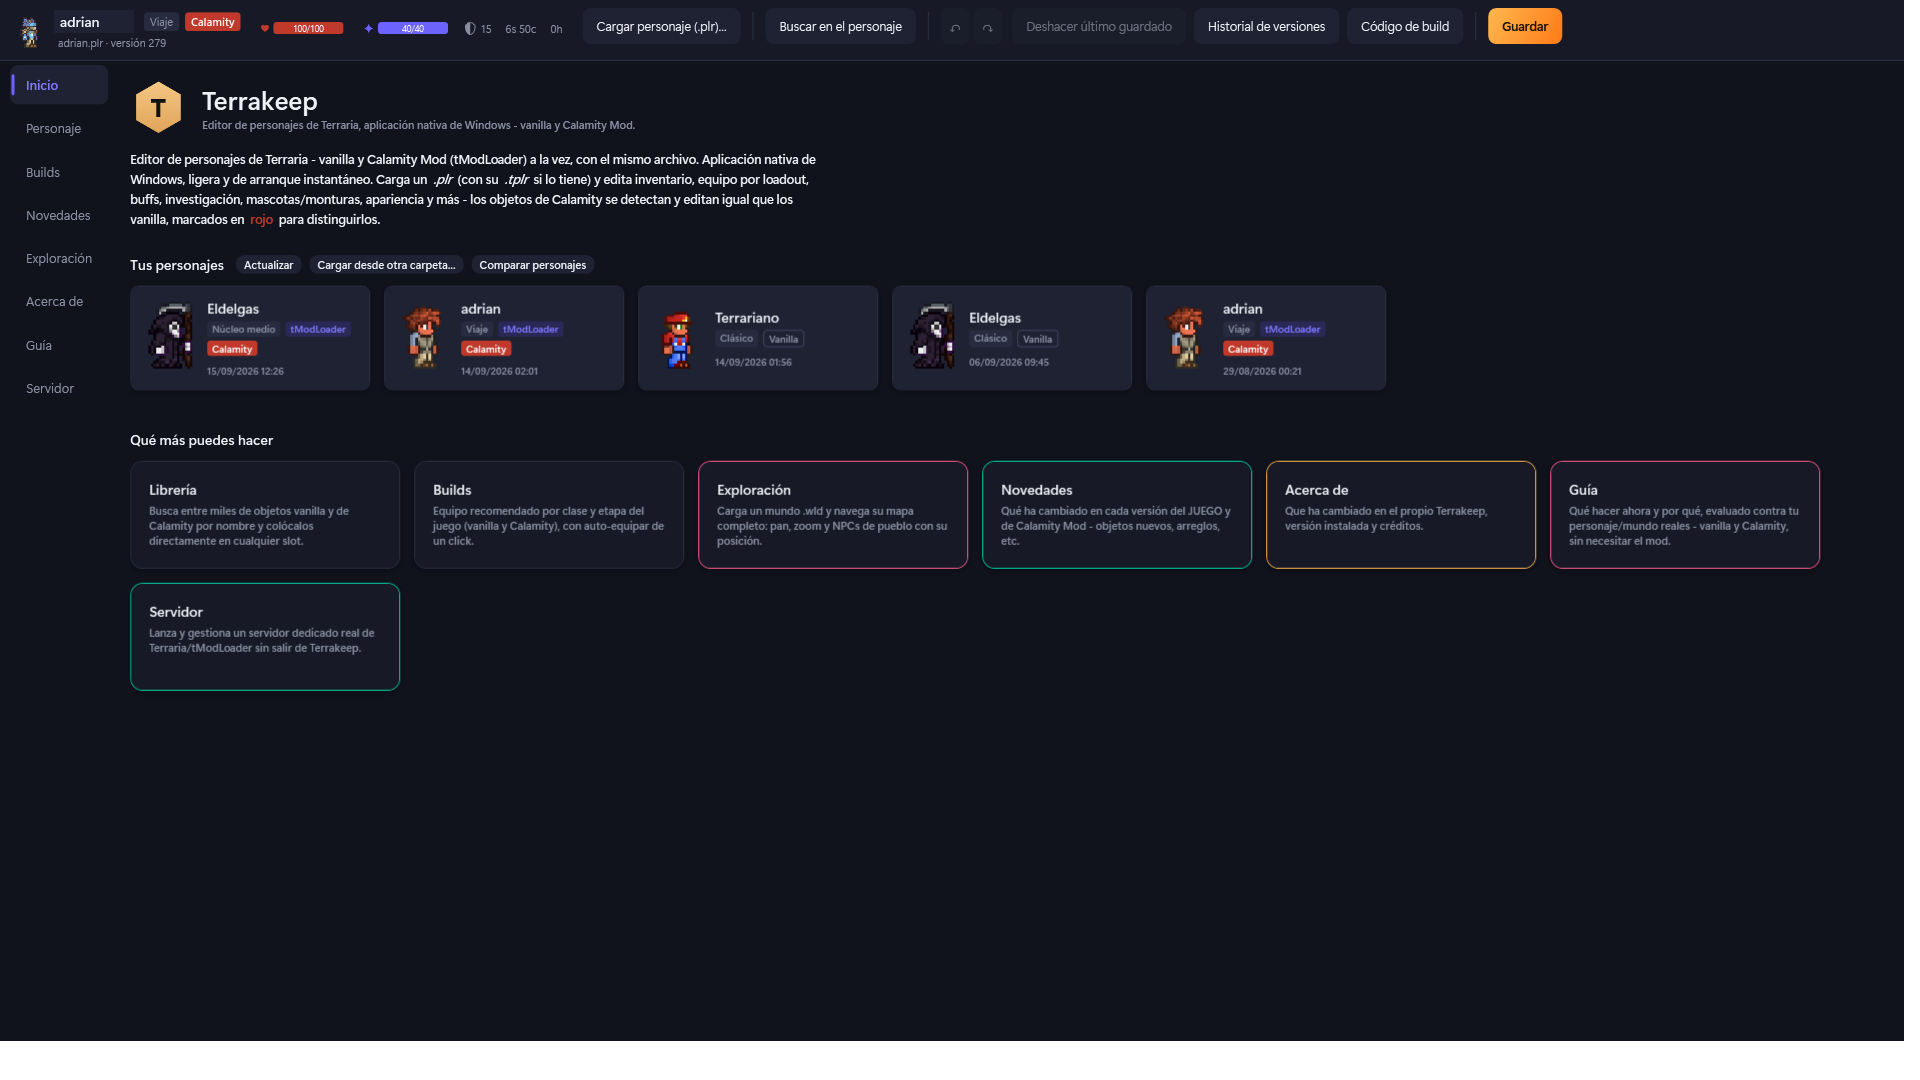
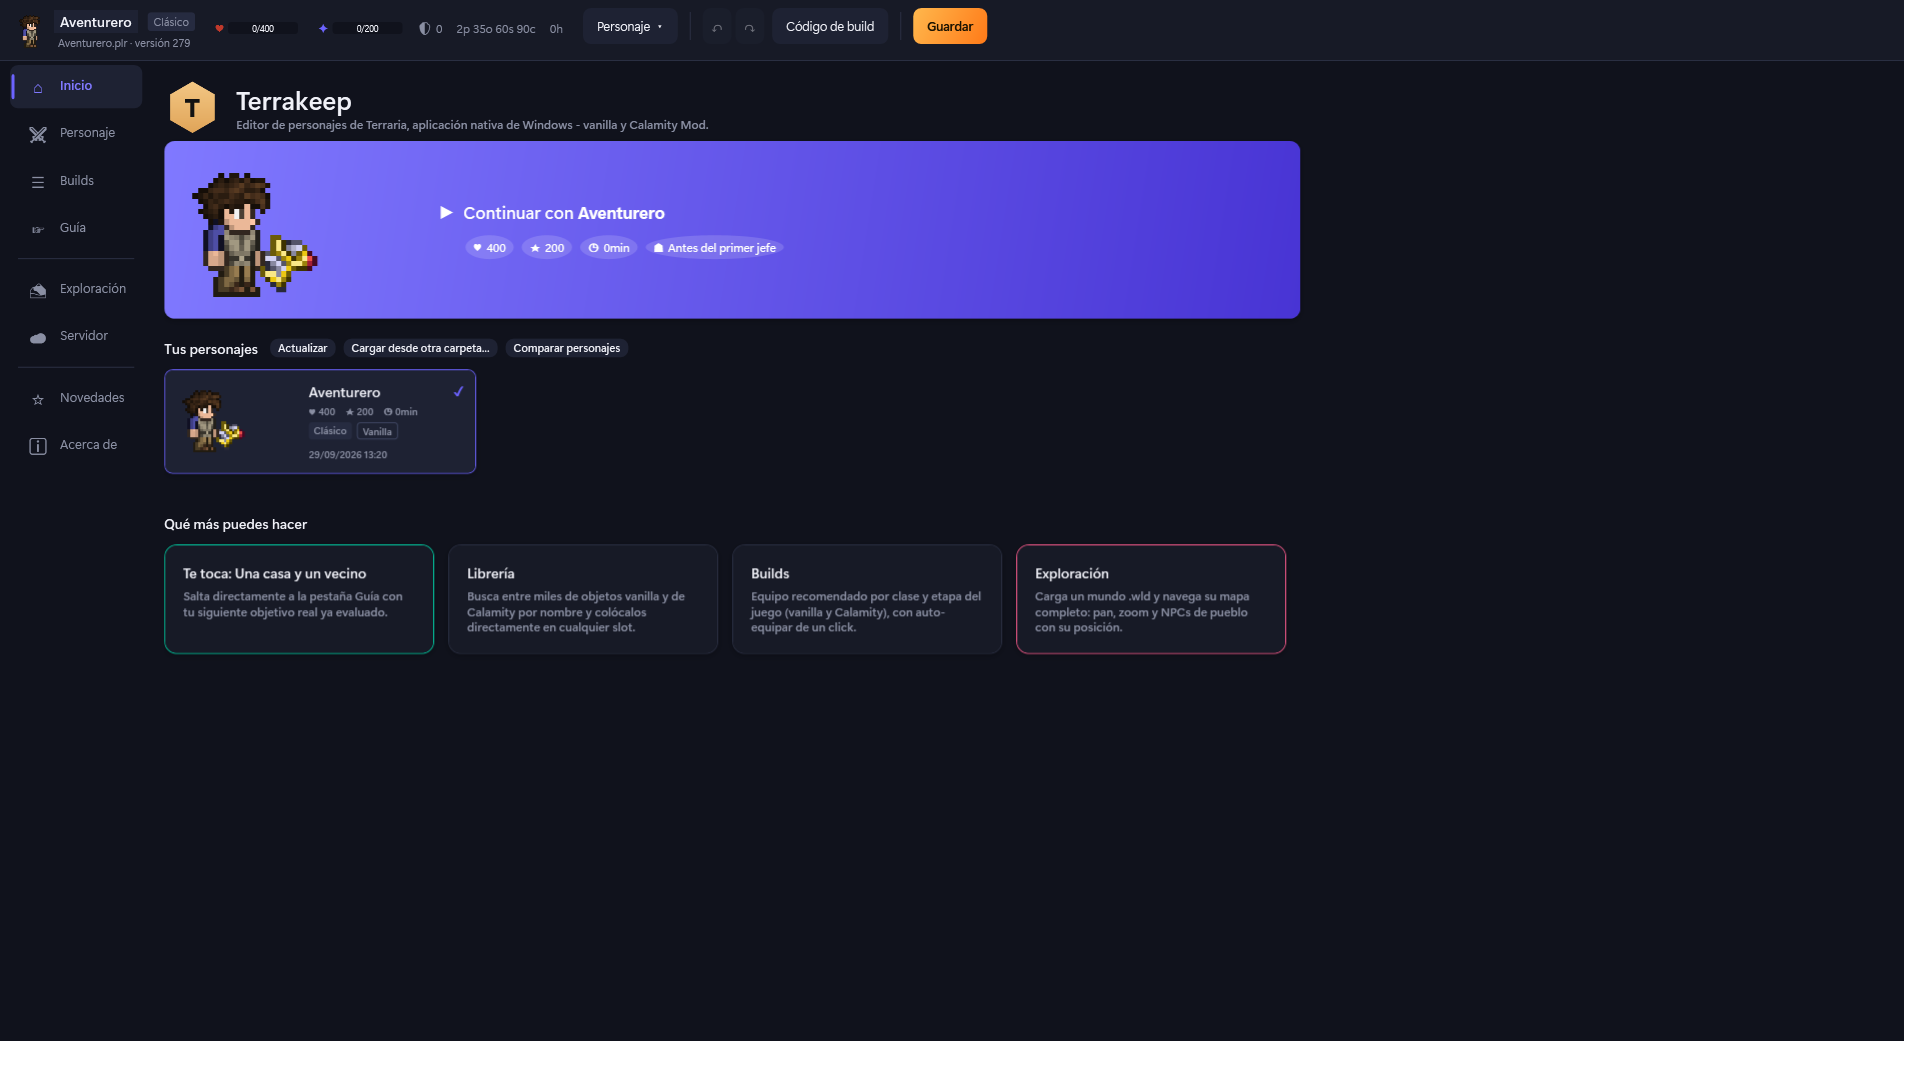
Capturas del README: personaje/mundo de prueba, nunca partidas reales
Las capturas de docs/screenshots/ (README_SHOTS=1) usaban el personaje
real 'adrian' (mismo nombre que el usuario de Windows) y sus mundos
reales - justo lo que la regla de la familia Keep para publicaciones
prohibe ("SOLO personajes y mundos de prueba, nunca partidas reales").
Ahora se construye un personaje 100% sintetico ('Aventurero': armadura
Hallowed, Terra Blade, monedas) con Terrakeep.Core.PlrFormat
directamente, y se aisla el escaneo de Inicio/Exploracion a esa unica
carpeta sintetica via CharacterFileService.CarpetasPersonajesDePrueba/
CarpetasMundosDePrueba (SOLO PRUEBAS, exige ModoDiagnostico=true) - la
proteccion ya existente de AislamientoPartidasReales.cs evita
ESCRITURAS sobre partidas reales, pero no evitaba que sus NOMBRES se
vieran en una captura publica.

De paso, dos bugs reales encontrados revisando los PNG generados: la
tarjeta "Continuar con X" y la barra "Tus mundos" no se refrescaban
solas al cambiar las carpetas de escaneo (se quedaban con la lista
sembrada de la sesion real anterior) - se fuerza Home.RefreshCommand/
Exploration.RefreshWorldsCommand antes de capturar. Las 6 capturas
regeneradas y revisadas una a una a mano: sin nombres reales, sin
paneles en blanco, sin franjas blancas/transparentes.

Claude-Session: https://claude.ai/code/session_01K7SsmyJLJN7mL9bZmtPKMP

diff --git a/Terrakeep.App.Tests/PruebasCapturasReadme.cs b/Terrakeep.App.Tests/PruebasCapturasReadme.cs
@@ -1,21 +1,28 @@
 using System.IO;
 using System.Linq;
 using Terrakeep.App;
+using Terrakeep.App.Services;
 using Terrakeep.App.ViewModels;
+using Terrakeep.Core.PlrFormat;
 using ServidorKeep.Core.Instancias;
 
 // Cierre de sesion (15-sep-2026, encargo del coordinador): las capturas de docs/screenshots/ que
-// usa README.md llevaban desde el 5-sep-2026 (version 2.1.0) - de antes de idioma completo, de
-// la Libreria dentro de Personaje rediseñada, del Editor de mundos real y muy de antes de la
-// Guia/Servidor de esta noche. Pedido explicito: sustituirlas por capturas REALES (nunca datos
-// sinteticos "UIA-Test") con un personaje/mundo real presentable de esta maquina, resolucion
-// grande (1920x1080, SizeClass=Extra - una sola linea en la franja de vitales, sin envolver), y
-// AÑADIR capturas nuevas de las dos pestañas nuevas de esta noche (Guia/Servidor) que README
-// todavia no mostraba en absoluto.
-//
-// Mismo criterio que GUIA_SOLO/HOSTING_SOLO (PruebasGuiaYServidor.cs): personaje real 'adrian'
-// (Calamity real, .tplr real) y mundo real 'roca_negra.wld', SIEMPRE sobre una COPIA en el temp
-// del sistema - los originales de Documentos nunca se abren en modo escritura ni se tocan.
+// usa README.md llevaban desde el 5-sep-2026 (version 2.1.0). Aquella ronda uso el personaje/
+// mundo REALES de esta maquina ('adrian'/'roca_negra.wld') como dato "presentable". Saneado de
+// privacidad (29-sep-2026, antes de publicar la 3.3.0 en el repo PUBLICO): el propio criterio de
+// la familia Keep para capturas de README es "SOLO personajes y mundos de PRUEBA, nunca partidas
+// reales del usuario" (ver REGLAS-PUBLICACION-FAMILIA.md) - un personaje llamado igual que el
+// usuario de Windows es justo el caso que esa regla prohibe. Ahora se construye un personaje
+// sintetico PRESENTABLE de verdad (armadura Hallowed completa + Terra Blade + monedas, nunca
+// "UIA-Test" vacio) con Terrakeep.Core.PlrFormat directamente (mismo mecanismo ya usado por
+// AuditoriaBadgesEstado.cs para sus personajes sinteticos), y se aisla el escaneo de Inicio a
+// SOLO esa carpeta sintetica via CharacterFileService.CarpetasPersonajesDePrueba/
+// CarpetasMundosDePrueba (SOLO PRUEBAS, exige App.ModoDiagnostico=true) - así ninguna captura
+// puede mostrar ya el nombre de una partida real, ni siquiera de las que YA estaban aisladas de
+// escritura por AislamientoPartidasReales.cs (esa proteccion es contra ESCRITURA, no evita que el
+// NOMBRE real se vea en pantalla). El mundo sigue siendo 'roca_negra.wld' real (su contenido -
+// terreno/cofres - no identifica al usuario, a diferencia de un nombre de personaje), SIEMPRE
+// sobre la copia YA aislada por AislamientoPartidasReales.cs, nunca el original de Documentos.
 internal static partial class Program
 {
     private static void CapturarPantallasReadme(MainWindow window, MainViewModel vm)
@@ -44,56 +51,131 @@ internal static partial class Program
         vm.Settings.Language = "es";
         FijarTamaño(window, 1920, 1080);
 
-        string origenPlr = RutasEntornoReal.Documentos(@"tModLoader\Players\adrian.plr");
-        string origenTplr = RutasEntornoReal.Documentos(@"tModLoader\Players\adrian.tplr");
+        // Personaje sintetico presentable ("Aventurero" - nunca el nombre del usuario real):
+        // Hallowed completo (551/552/553) + Angel Wings (493) equipados, Terra Blade (757) e
+        // Iron Pickaxe/Axe (1/10) en el inventario, monedas reales. IDs vanilla confirmados contra
+        // Terrakeep.App/Assets/vanilla_item_names_en.json (catalogo real del propio repo, nunca
+        // inventados). Version=279 (misma linea base que el resto del arnes).
+        var personaje = new PlrCharacter
+        {
+            Version = 279,
+            Name = "Aventurero",
+            Difficulty = 0,
+            PlayTimeLow = 5_400_000, // ~1h30 a 60 ticks/s, solo para que no salga "0h" en la tarjeta
+            HealthMax = 400,
+            ManaMax = 200,
+            HairColor = [90, 60, 35],
+            SkinColor = [255, 200, 165],
+            EyeColor = [105, 90, 75],
+            ShirtColor = [175, 165, 140],
+            UnderColor = [85, 85, 180],
+            PantsColor = [170, 140, 90],
+            ShoesColor = [130, 90, 60],
+            EquipmentItems =
+            [
+                new PlrItemSlot(553, 1, 0, false), // Hallowed Helmet
+                new PlrItemSlot(551, 1, 0, false), // Hallowed Plate Mail
+                new PlrItemSlot(552, 1, 0, false), // Hallowed Greaves
+                new PlrItemSlot(493, 1, 0, false), // Angel Wings
+                PlrItemSlot.Empty,
+            ],
+            EquipmentDyes = new PlrItemSlot[5],
+            Inventory = CrearInventarioPresentable(),
+            Coins =
+            [
+                new PlrItemSlot(74, 2, 0, false),  // Platinum Coin
+                new PlrItemSlot(73, 35, 0, false),  // Gold Coin
+                new PlrItemSlot(72, 60, 0, false),  // Silver Coin
+                new PlrItemSlot(71, 90, 0, false),  // Copper Coin
+            ],
+            PrimaryLoadout = CrearLoadoutPrincipal(),
+            Loadouts = [PlrLoadout.CreateEmpty(isPrimary: false), PlrLoadout.CreateEmpty(isPrimary: false), PlrLoadout.CreateEmpty(isPrimary: false)],
+        };
+
         string origenWld = MundoAislado(RutasEntornoReal.Documentos(@"tModLoader\Worlds\roca_negra.wld"));
 
-        if (!File.Exists(origenPlr))
-        {
-            Console.WriteLine("README_SHOTS: adrian.plr no esta en esta maquina - se omiten el resto de capturas con datos reales.");
-            return;
-        }
-
-        // Copia en una carpeta PROPIA del temp (no suelta en la raiz del temp) para poder llamar
-        // a los ficheros "adrian.plr"/"adrian.tplr" tal cual (mismo nombre que el original) sin
-        // arriesgar colision con otro fichero real - la cabecera de la app muestra el nombre de
-        // fichero tal cual ("{0} · versión {1}", header_file_version_line), y un prefijo de arnes
-        // ahi ("readme-harness-adrian.plr") se veria feo en una captura pensada para el README.
+        // Carpeta PROPIA del temp, con la estructura Players/Worlds que espera
+        // CharacterFileService (SUSTITUYE por completo las carpetas reales mientras dura esta
+        // captura - restaurado al terminar en el finally).
         string tempDir = Path.Combine(Path.GetTempPath(), "terrakeep-readme-shots");
-        Directory.CreateDirectory(tempDir);
-        string copiaPlr = Path.Combine(tempDir, "adrian.plr");
-        string copiaTplr = Path.Combine(tempDir, "adrian.tplr");
-        File.Copy(origenPlr, copiaPlr, overwrite: true);
-        if (File.Exists(origenTplr)) File.Copy(origenTplr, copiaTplr, overwrite: true);
+        string dirPersonajes = Path.Combine(tempDir, "Players");
+        string dirMundos = Path.Combine(tempDir, "Worlds");
+        Directory.CreateDirectory(dirPersonajes);
+        Directory.CreateDirectory(dirMundos);
+        string copiaPlr = Path.Combine(dirPersonajes, "Aventurero.plr");
+        File.WriteAllBytes(copiaPlr, PlrFile.Write(personaje));
+
+        var carpetasPersonajesAnteriores = CharacterFileService.CarpetasPersonajesDePrueba;
+        var carpetasMundosAnteriores = CharacterFileService.CarpetasMundosDePrueba;
+        CharacterFileService.CarpetasPersonajesDePrueba = [dirPersonajes];
+        CharacterFileService.CarpetasMundosDePrueba = [dirMundos];
 
         string? copiaWld = null;
         try
         {
-            // Se carga el personaje real ANTES de capturar Inicio a proposito (bug real de esta
-            // MISMA captura encontrado revisando el PNG generado): session.json (%LOCALAPPDATA%\
-            // Terrakeep\, restaurado por MainWindow() ya en el constructor) traia el ULTIMO
-            // personaje de una ronda de pruebas anterior de este mismo arnes - la tarjeta
-            // destacada de Inicio ("Continuar con...") salia con el nombre sintetico "UIA-Test",
-            // justo el tipo de dato de prueba feo que el encargo pedia evitar. Cargando 'adrian'
-            // primero, el evento CharacterLoaded real (MainWindow.xaml.cs, H5-07) deja la sesion
-            // guardada con un personaje real y presentable antes de que Inicio se capture.
+            // Se carga el personaje sintetico ANTES de capturar Inicio a proposito (bug real de
+            // esta MISMA captura encontrado revisando el PNG generado en la ronda original): sin
+            // esto, la tarjeta destacada de Inicio ("Continuar con...") sale con el ultimo
+            // personaje de una ronda de pruebas anterior. Cargando 'Aventurero' primero, el
+            // evento CharacterLoaded real (MainWindow.xaml.cs, H5-07) deja la sesion guardada con
+            // un personaje presentable antes de que Inicio se capture.
+            // Home.Characters ya se escaneo UNA VEZ contra las carpetas reales antes de que este
+            // metodo se ejecutara (T-G, escaneo en segundo plano del propio constructor de
+            // MainWindow) - el cambio de CarpetasPersonajesDePrueba de mas arriba no lo reescanea
+            // solo. Sin este refresco forzado, "Tus personajes" seguiria mostrando la lista real
+            // (Eldelgas/Zenith/Terrariano/adrian) aunque la tarjeta activa ya diga "Aventurero" -
+            // bug real encontrado revisando el PNG generado en esta misma ronda de saneado.
+            var refrescoHome = vm.Home.RefreshCommand.ExecuteAsync(null);
+            while (!refrescoHome.IsCompleted) DoEvents();
+            DoEvents();
+            Console.WriteLine($"README_SHOTS: Home.Characters tras el refresco aislado = {vm.Home.Characters.Count} (esperado 1, solo 'Aventurero')");
+
             vm.LoadFromPath(copiaPlr);
             DoEvents();
-            Console.WriteLine($"README_SHOTS: personaje real cargado -> HasCalamityData={vm.HasCalamityData} (esperado True)");
+            // La tarjeta hero "Continuar con X" (LastSessionCharacterEntry) NO se actualiza sola
+            // al cargar un personaje por codigo (solo lo hace MainViewModel.SaveSession, ligado al
+            // cierre real de la ventana) - se quedaba con el ultimo _lastSessionPath SEMBRADO desde
+            // la copia real de session.json (el personaje real de la sesion anterior del usuario).
+            // Bug real encontrado revisando el PNG generado en esta misma ronda de saneado.
+            vm.Home.SetLastSession(new Terrakeep.App.Services.TerrakeepSession { LastCharacterPath = copiaPlr, LastCharacterName = personaje.Name });
+            DoEvents();
+            Console.WriteLine($"README_SHOTS: personaje sintetico cargado -> HasCalamityData={vm.HasCalamityData} (esperado False, es vanilla puro)");
 
+            // Copia el mundo a la carpeta aislada ANTES del refresco, para que
+            // RefreshWorldsCommand lo detecte y "Tus mundos" muestre 'roca negra' en vez de
+            // quedar vacio (dirMundos aun no tenia ningun .wld dentro en el primer intento de
+            // este mismo saneado).
             if (File.Exists(origenWld))
             {
-                copiaWld = Path.Combine(tempDir, "roca_negra.wld");
+                copiaWld = Path.Combine(dirMundos, "roca_negra.wld");
                 File.Copy(origenWld, copiaWld, overwrite: true);
+                string origenTwld = Path.ChangeExtension(origenWld, ".twld");
+                if (File.Exists(origenTwld)) File.Copy(origenTwld, Path.ChangeExtension(copiaWld, ".twld"), overwrite: true);
+            }
+
+            // Mismo bug que Home.Characters (ver mas arriba): Exploration.Worlds ("Tus mundos")
+            // tambien se escaneo UNA VEZ contra las carpetas reales antes de este metodo - sin
+            // refrescarla mostraba los 6 mundos reales de esta maquina (Blando Río, adriandres,
+            // El Musgo de Accidentes...) en la barra de "Tus mundos", aunque el mapa cargado ya
+            // fuera la copia aislada. Bug real encontrado revisando el PNG generado en esta misma
+            // ronda de saneado.
+            var refrescoMundos = vm.Exploration.RefreshWorldsCommand.ExecuteAsync(null);
+            while (!refrescoMundos.IsCompleted) DoEvents();
+            DoEvents();
+            Console.WriteLine($"README_SHOTS: Exploration.Worlds tras el refresco aislado = {vm.Exploration.Worlds.Count} (esperado 1, solo 'roca_negra')");
+
+            if (copiaWld != null)
+            {
                 var cargaTemprana = vm.Exploration.LoadFromPathAsync(copiaWld);
                 while (!cargaTemprana.IsCompleted) DoEvents();
                 DoEvents();
             }
 
-            // 01-inicio.png: Inicio con la sesion real ya al dia (tarjeta "Continuar con adrian",
-            // tarjeta del personaje marcada como actual, lista real de los 5 personajes de esta
-            // maquina). Esperar tambien a que termine el escaneo de disco en segundo plano
-            // (Home.IsScanning, fire-and-forget desde el propio constructor, T-G).
+            // 01-inicio.png: Inicio con la sesion sintetica ya al dia (tarjeta "Continuar con
+            // Aventurero", tarjeta del personaje marcada como actual - unico personaje real
+            // visible gracias al aislamiento de carpetas de mas arriba). Esperar tambien a que
+            // termine el escaneo de disco en segundo plano (Home.IsScanning, fire-and-forget
+            // desde el propio constructor, T-G).
             vm.SelectedTabIndex = 0;
             long limiteScan = Environment.TickCount64 + 10_000;
             while (vm.Home.IsScanning && Environment.TickCount64 < limiteScan) DoEvents();
@@ -101,16 +183,20 @@ internal static partial class Program
             Capturar("01-inicio.png");
 
             // 02-personaje.png: pestaña Personaje, sub-pestaña Objetos (la que trae la Libreria
-            // debajo del inventario desde el 1-sep-2026) - equipo/inventario reales de 'adrian'.
-            // PersonajeInnerTabIndex se fija a mano (0=Objetos): session.json puede traer
+            // debajo del inventario desde el 1-sep-2026) - equipo/inventario sinteticos de
+            // 'Aventurero'. PersonajeInnerTabIndex se fija a mano (0=Objetos): session.json puede traer
             // persistida la sub-pestaña de una ronda de pruebas anterior (measurado: se quedaba en
             // Apariencia, 3, una captura bastante menos representativa del uso real de la app).
             vm.SelectedTabIndex = 1;
             vm.PersonajeInnerTabIndex = 0;
-            DoEvents(); DoEvents();
+            // Panel en blanco real (dos rondas seguidas, 40290 bytes deterministas) con solo dos
+            // DoEvents(): la vista de Objetos/Libreria tarda mas en montar su arbol la PRIMERA vez
+            // que se visita esta pestaña en la sesion (8903 objetos) - WaitForDispatcher(300) da
+            // tiempo real al layout, mismo patron ya usado en otros bloques de este arnes.
+            WaitForDispatcher(300);
             Capturar("02-personaje.png");
 
-            Console.WriteLine($"README_SHOTS: mundo real cargado -> IsWorldLoaded={vm.Exploration.IsWorldLoaded}");
+            Console.WriteLine($"README_SHOTS: mundo cargado -> IsWorldLoaded={vm.Exploration.IsWorldLoaded}");
             if (vm.Exploration.IsWorldLoaded)
             {
                 // 03-exploracion.png: pestaña Exploracion con una busqueda real abierta
@@ -125,7 +211,8 @@ internal static partial class Program
 
                 // 05-guia.png (NUEVA - README no mostraba esta pestaña, integrada esta misma
                 // noche): objetivo actual + arbol de tramos evaluados de verdad contra el
-                // personaje Calamity y el mundo reales ya cargados.
+                // personaje y el mundo ya cargados (personaje vanilla puro - MostrarAvisoCalamity
+                // esperado False, no hay ningun aviso de Calamity que mostrar).
                 vm.SelectedTabIndex = 3; // Guia - AppTab.Guia, reordenado T1 21-sep-2026
                 DoEvents();
                 vm.Guide.Refresh();
@@ -197,7 +284,32 @@ internal static partial class Program
         }
         finally
         {
+            CharacterFileService.CarpetasPersonajesDePrueba = carpetasPersonajesAnteriores;
+            CharacterFileService.CarpetasMundosDePrueba = carpetasMundosAnteriores;
             try { Directory.Delete(tempDir, recursive: true); } catch { }
         }
+    }
+
+    // Inventario sintetico presentable para "Aventurero" (README_SHOTS): un pico/hacha de hierro
+    // en los dos primeros slots y una Terra Blade bien visible - IDs vanilla confirmados contra
+    // Terrakeep.App/Assets/vanilla_item_names_en.json (catalogo real del propio repo).
+    private static PlrItemSlot[] CrearInventarioPresentable()
+    {
+        var inventario = new PlrItemSlot[50];
+        Array.Fill(inventario, PlrItemSlot.Empty);
+        inventario[0] = new PlrItemSlot(757, 1, 0, false); // Terra Blade
+        inventario[1] = new PlrItemSlot(1, 1, 0, false);   // Iron Pickaxe
+        inventario[2] = new PlrItemSlot(10, 1, 0, false);  // Iron Axe
+        return inventario;
+    }
+
+    // Loadout principal sintetico para "Aventurero": la Terra Blade tambien en el primer slot de
+    // Items del loadout activo (loadouts[0], el "mirror" - PlrLoadout.CreateEmpty(isPrimary: true)
+    // ya deja Hide=null como corresponde a ese loadout).
+    private static PlrLoadout CrearLoadoutPrincipal()
+    {
+        var loadout = PlrLoadout.CreateEmpty(isPrimary: true);
+        loadout.Items[0] = new PlrItemSlot(757, 1, 0, false); // Terra Blade
+        return loadout;
     }
 }
